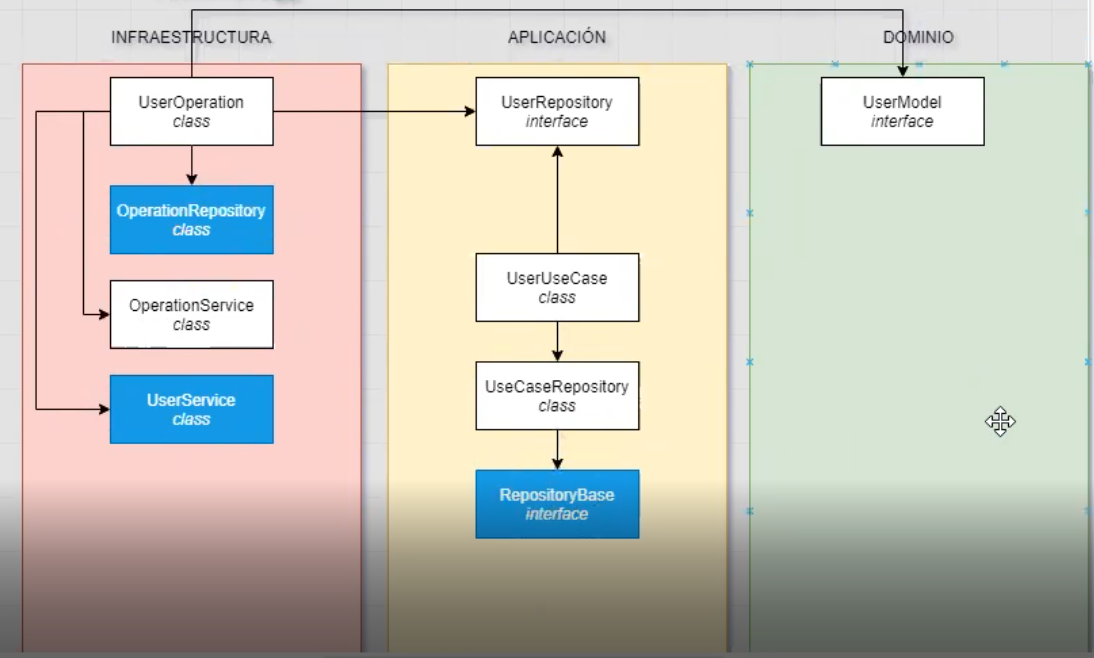
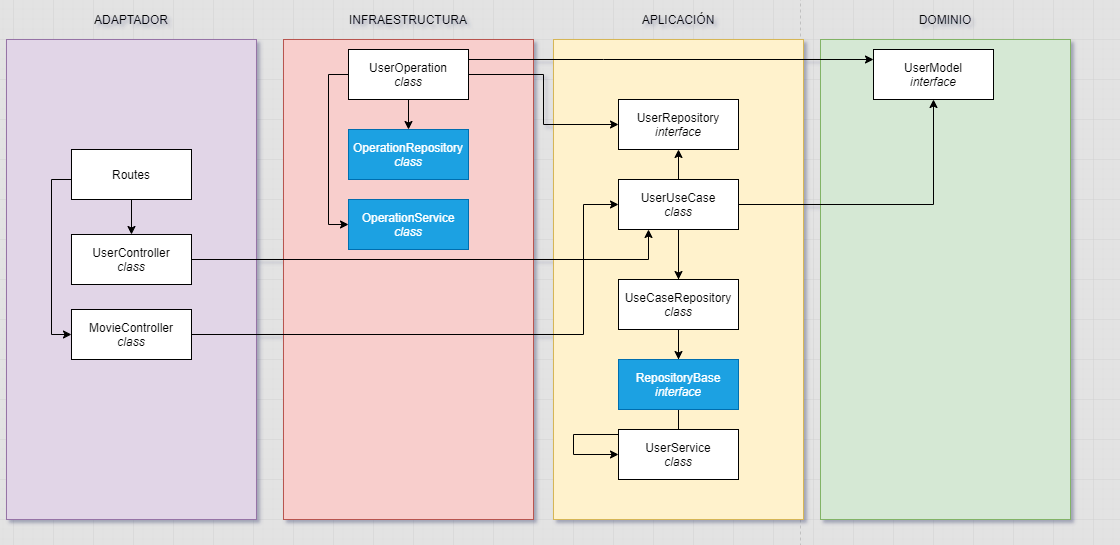
[master] fix issues

diff --git a/src/movie/infraestructure/movie.operation.ts b/src/movie/infraestructure/movie.operation.ts
@@ -1,13 +1,30 @@
+/* eslint-disable no-console */
 /* eslint-disable prettier/prettier */
 import { MovieModel } from '../domain/movie.model';
 import { OperationRepository } from '../../shared/infraestructure/operation.repository';
 import { MovieRepository } from '../application/movie.repository';
 import { Movie } from '../../entities/movie.entity';
+import { Result } from '../../shared/application/result.interface';
+import { OperationService } from '../../shared/infraestructure/operation.service';
+import { getRepository, Repository } from 'typeorm';
+import { ResponseDto } from '../../helper/response.dto';
 
 export class MovieOperation
   extends OperationRepository<MovieModel>
   implements MovieRepository {
   constructor() {
     super(Movie);
+  }
+
+  async listByUserAndPublic(
+    where: object[] = [],
+    relations: string[] = [],
+    order: object = {}
+  ): Promise<Result<MovieModel>> {
+    const trace: string = OperationService.getTrace();
+    const repository: Repository<Movie> = getRepository(Movie);
+    const data: Movie[] = await repository.find({ where, relations, order });
+    console.log('listByUserAndPublic', data);
+    return ResponseDto.format(trace, data);
   }
 }

diff --git a/src/movie/adapter/movie.controller.ts b/src/movie/adapter/movie.controller.ts
@@ -8,7 +8,11 @@ export class RoleController {
   constructor(private useCase: MovieUseCase) {}
 
   async list(req: Request, res: Response) {
-    const result = await this.useCase.list();
+    // const params = req.params;
+    // const public = true;
+    // const user = +params.user;
+    // [{ user }, { public }]
+    const result = await this.useCase.list(); // { user, public }
     res.json(result);
   }
 
@@ -24,6 +28,13 @@ export class RoleController {
     const params = req.params;
     const page = +params.page;
     const result = await this.useCase.listByPage(page, 20);
+    res.json(result);
+  }
+
+  async listByUserAndPublic(req: Request, res: Response) {
+    const params = req.params;
+    const where = [{ user: +params.user }, { public: true }]; // Querying with OR operator:
+    const result = await this.useCase.listByUserAndPublic(where);
     res.json(result);
   }
 

diff --git a/src/movie/application/movie.usecase.ts b/src/movie/application/movie.usecase.ts
@@ -1,4 +1,5 @@
 import { UseCaseRepository } from '../../shared/application/usecase.repository';
+import { Result } from '../../shared/application/result.interface';
 import { MovieModel } from '../domain/movie.model';
 import { MovieRepository } from './movie.repository';
 
@@ -8,5 +9,13 @@ export class MovieUseCase extends UseCaseRepository<
 > {
   constructor(public operation: MovieRepository) {
     super(operation);
+  }
+
+  async listByUserAndPublic(
+    where: object[] = [],
+    relations: string[] = [],
+    order: object = {}
+  ): Promise<Result<MovieModel>> {
+    return this.operation.listByUserAndPublic(where, relations, order);
   }
 }

diff --git a/src/movie/application/movie.repository.ts b/src/movie/application/movie.repository.ts
@@ -1,4 +1,11 @@
 import { RepositoryBase } from '../../shared/application/base.repository';
+import { Result } from '../../shared/application/result.interface';
 import { MovieModel } from '../domain/movie.model';
 
-export type MovieRepository = RepositoryBase<MovieModel>;
+export interface MovieRepository extends RepositoryBase<MovieModel> {
+  listByUserAndPublic(
+    where: object[],
+    relations: string[],
+    order: object
+  ): Promise<Result<MovieModel>>;
+}

diff --git a/src/movie/adapter/movie.route.ts b/src/movie/adapter/movie.route.ts
@@ -30,6 +30,11 @@ route.get(
   Validators.validate(schemas.LIST_BY_PAGE),
   controller.listByPage.bind(controller)
 );
+route.get(
+  '/user/:user',
+  Validators.validate(schemas.LIST_BY_USER_AND_PUBLIC),
+  controller.listByUserAndPublic.bind(controller)
+);
 route.post(
   '/',
   AuthenticationGuard.canActivate,

diff --git a/src/movie/adapter/movie.schema.ts b/src/movie/adapter/movie.schema.ts
@@ -13,6 +13,11 @@ export const schemas = {
       page: Joi.number().min(0).required(),
     }),
   },
+  LIST_BY_USER_AND_PUBLIC: {
+    params: Joi.object({
+      user: Joi.number().min(1).required(),
+    }),
+  },
   INSERT: {
     body: Joi.object({
       name: Joi.string().required(),

diff --git a/src/movie/domain/movie.model.ts b/src/movie/domain/movie.model.ts
@@ -4,6 +4,6 @@ export interface MovieModel {
   gender: string;
   rating: number;
   description: string;
-  public: number;
+  public: boolean;
   user: any;
 }

diff --git a/README.md b/README.md
@@ -131,6 +131,8 @@ I – Interface Segregation Principle (ISP)
 D – Dependency Inversion Principle (DIP)
 ```
 
+Disminuir la dependencia entre capas, bajar el acoplamiento
+
 #### Security:
 
 AccessToken and refreshToken for implement the security
